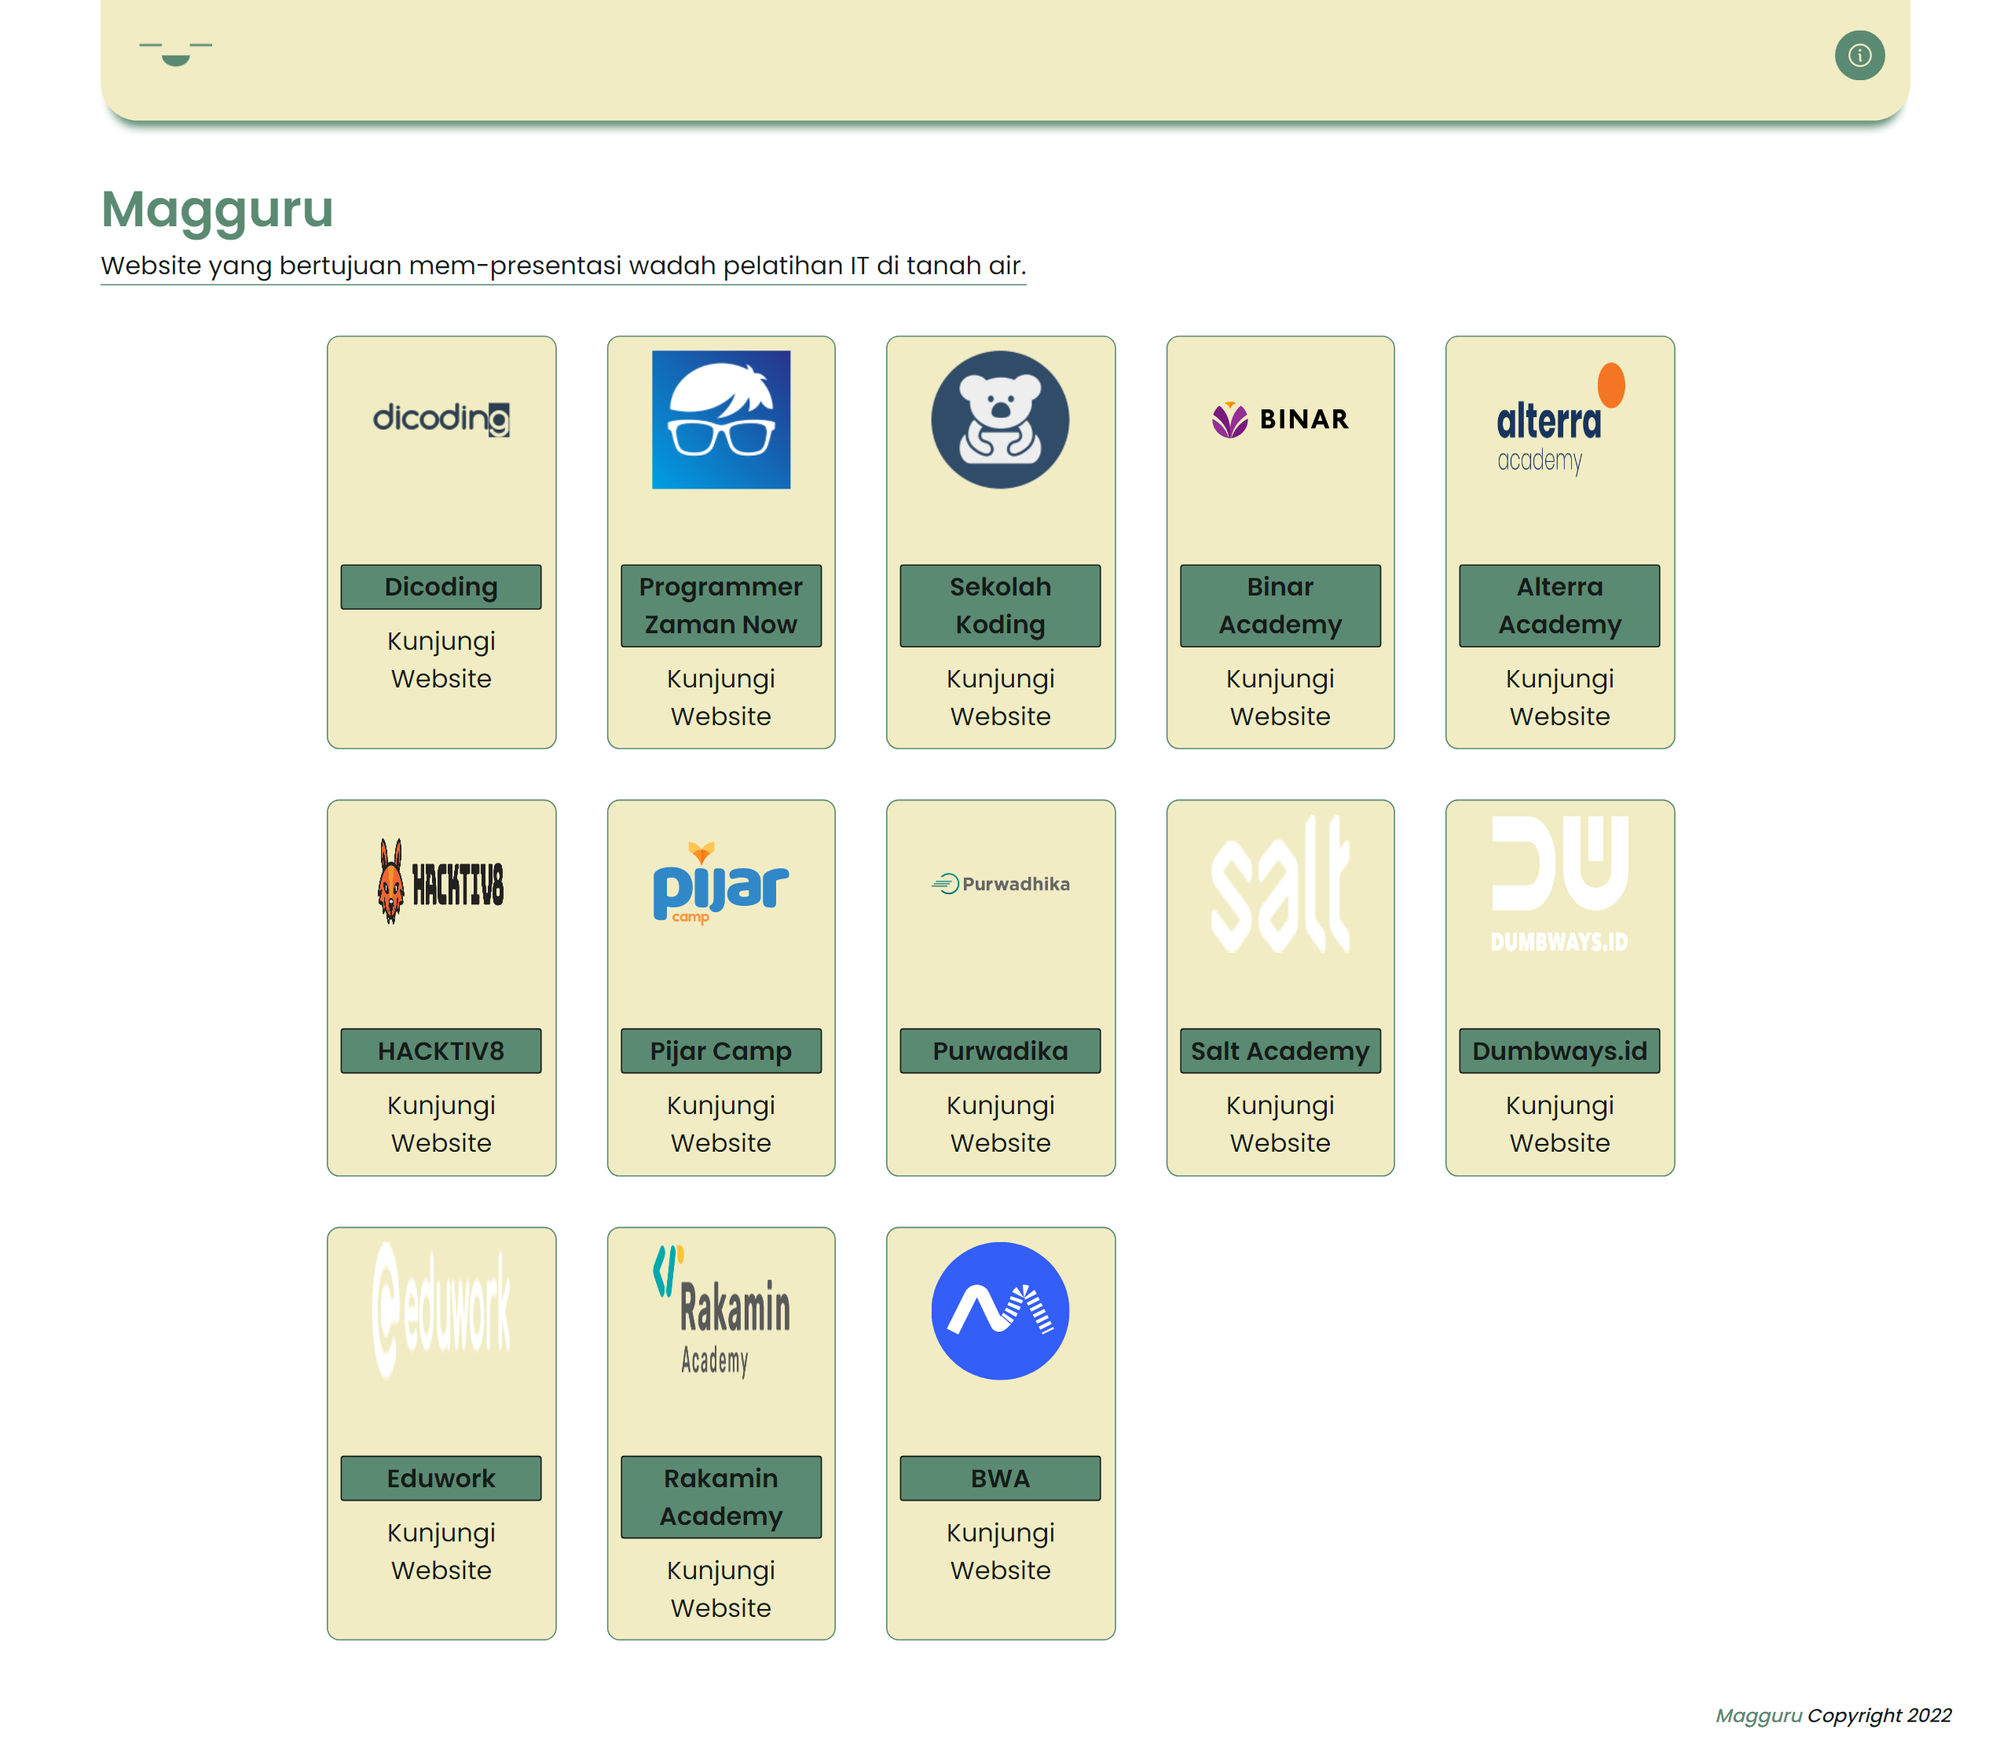
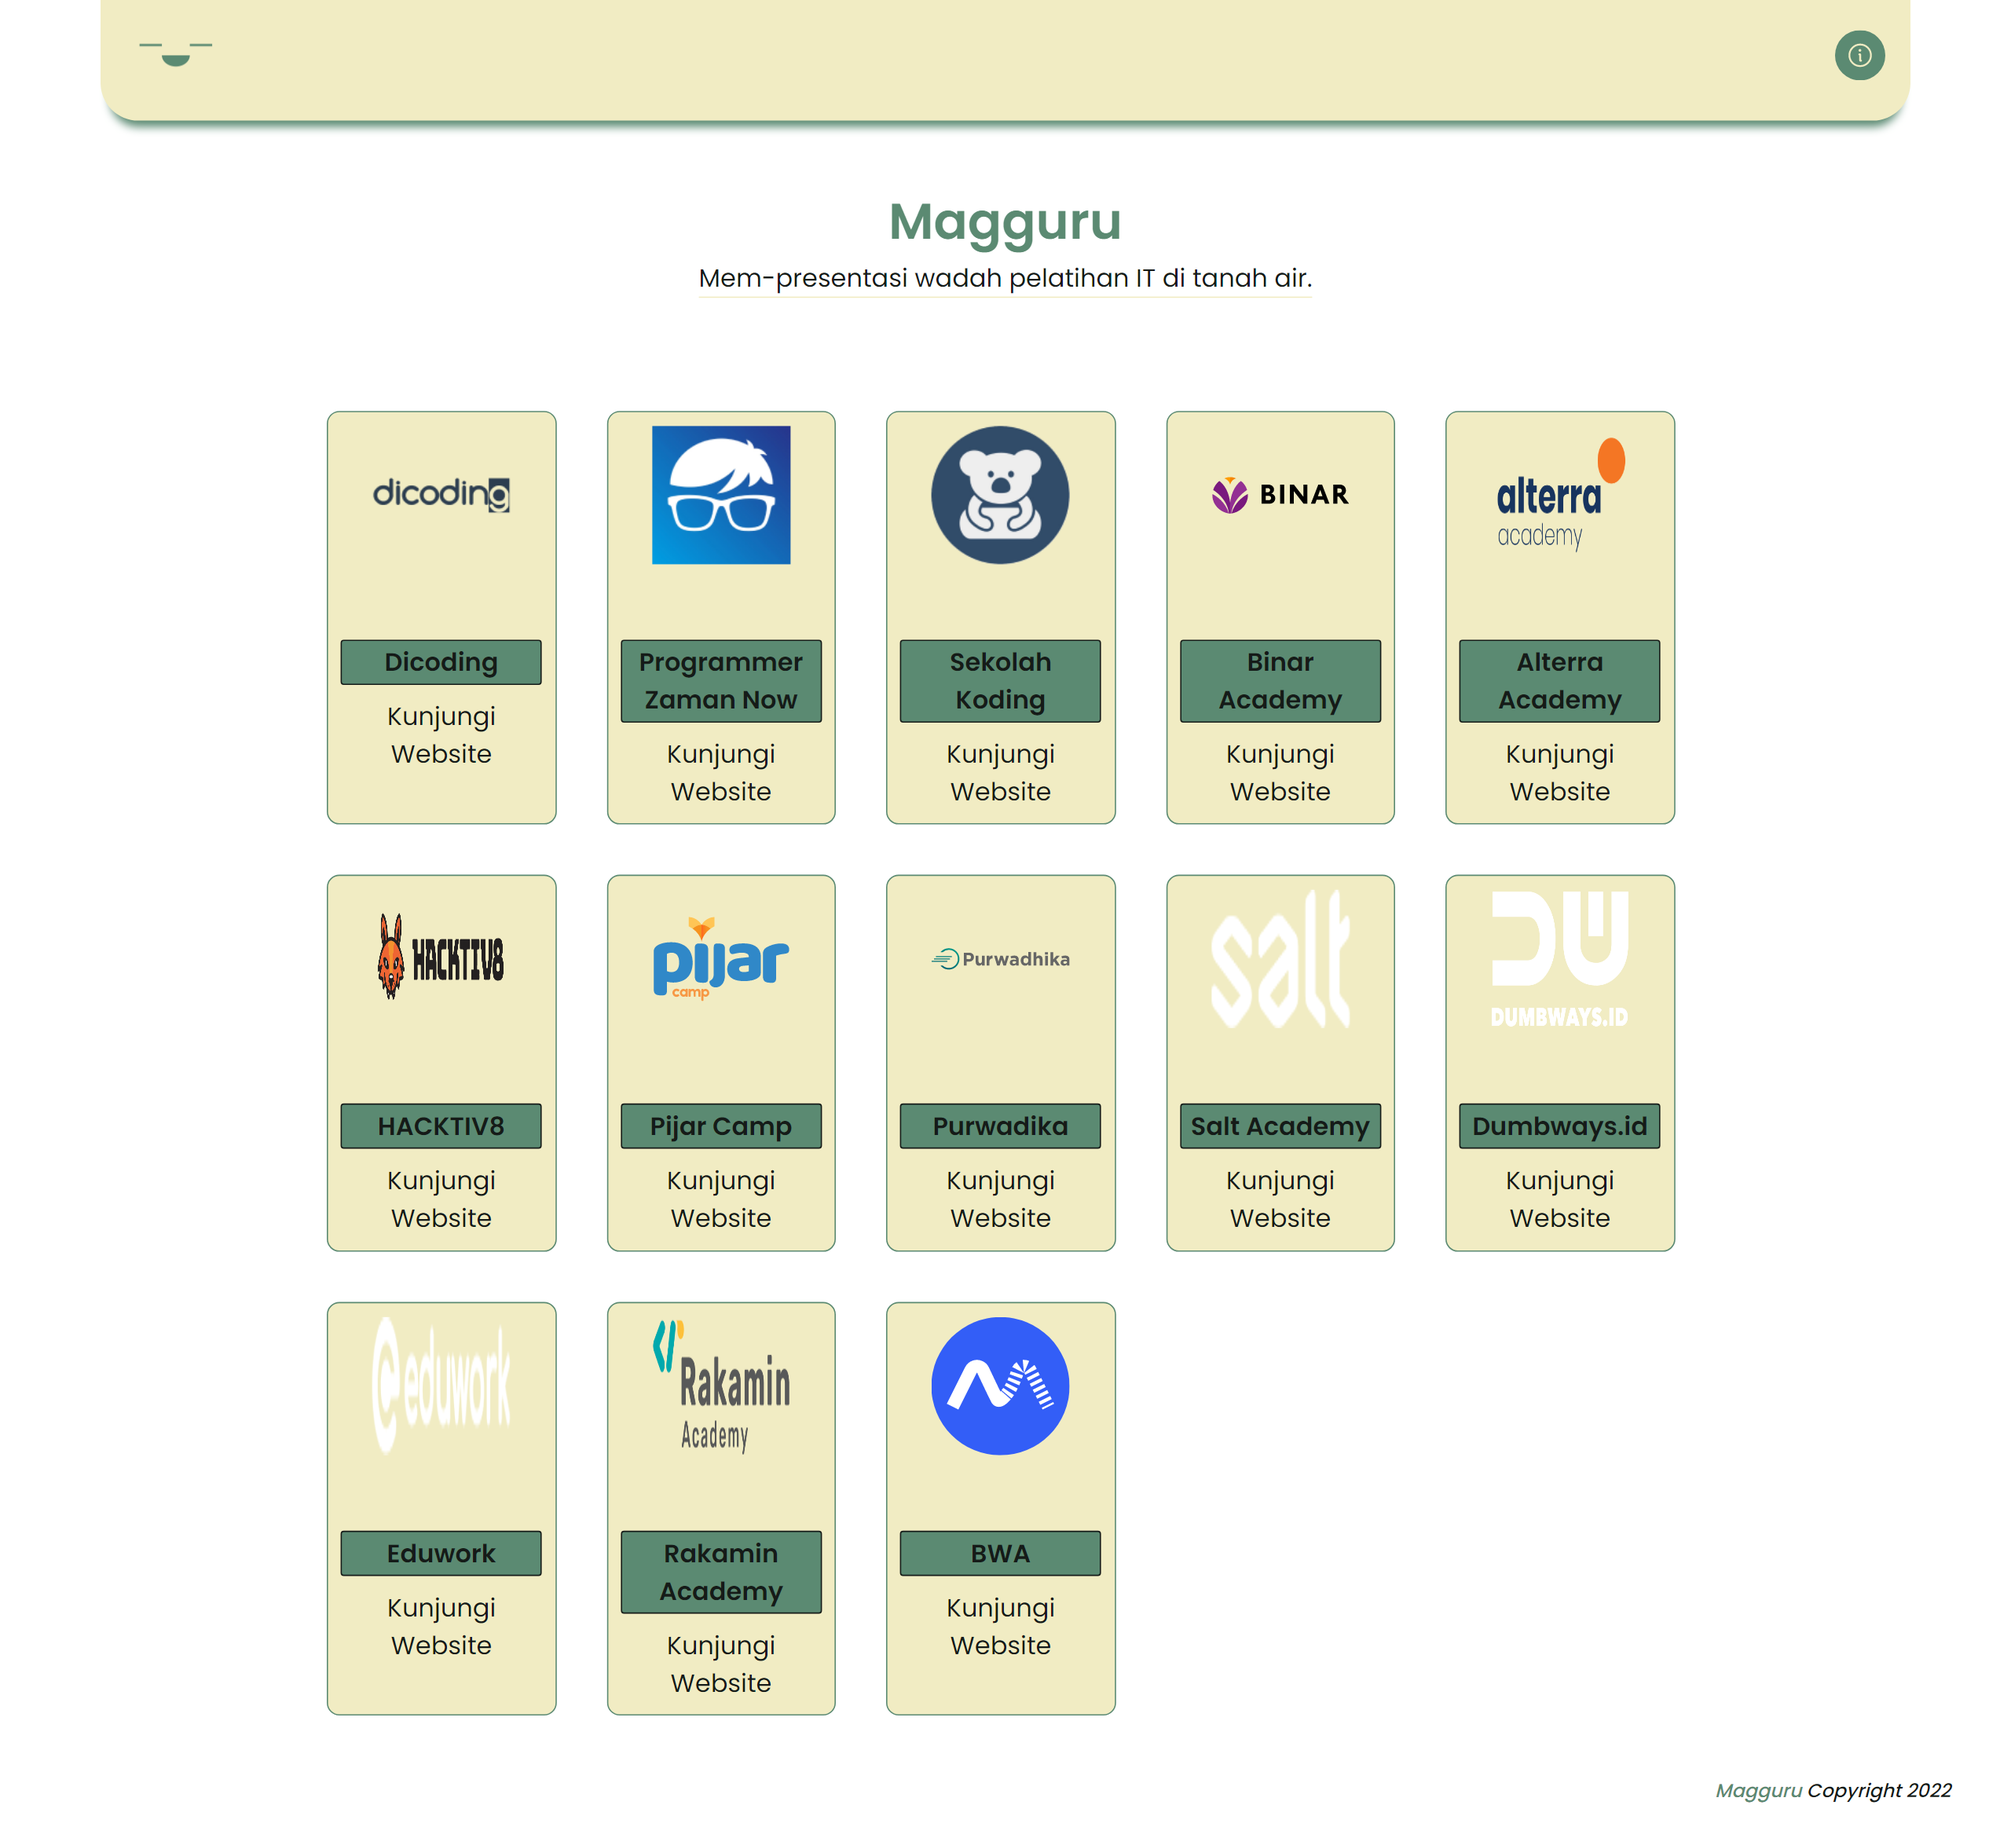
Updated Files

diff --git a/style.css b/style.css
@@ -94,16 +94,18 @@ nav {
 /* || Main */
 main {
 	position: relative;
-	margin: 2rem 2rem;
+	margin: 4rem 2rem;
 
 	display: flex;
 	flex-direction: column;
-	gap: 2rem;
+	gap: 4rem;
 }
 
 /* || About us Section */
 .about-us {
-	margin: auto 2rem;
+	align-self: center;
+	text-align: center;
+	padding: 0.5rem;
 }
 
 .about-us h1 {
@@ -115,7 +117,7 @@ main {
 	width: fit-content;
 	border-bottom-style: solid;
 	border-bottom-width: 1px;
-	border-bottom-color: var(--third-color);
+	border-bottom-color: var(--secondary-color);
 }
 
 /* || Article Section */

diff --git a/index.html b/index.html
@@ -27,20 +27,17 @@
 				</div>
 			</nav>
 		</header>
-		
 		<main>
 			<section class="about-us">
 				<h1>Magguru</h1>
-				<p>Website yang bertujuan mem-presentasi wadah pelatihan IT di tanah air.</p>
+				<p>Mem-presentasi wadah pelatihan IT di tanah air.</p>
 			</section>
 			<section class="article" id="article">
 			</section>
 		</main>
-		
 		<footer>
 			<p><span>Magguru</span> Copyright 2022</p>
 		</footer>
-
 		<script src="./script.js"></script>
 	</body>
 </html>
